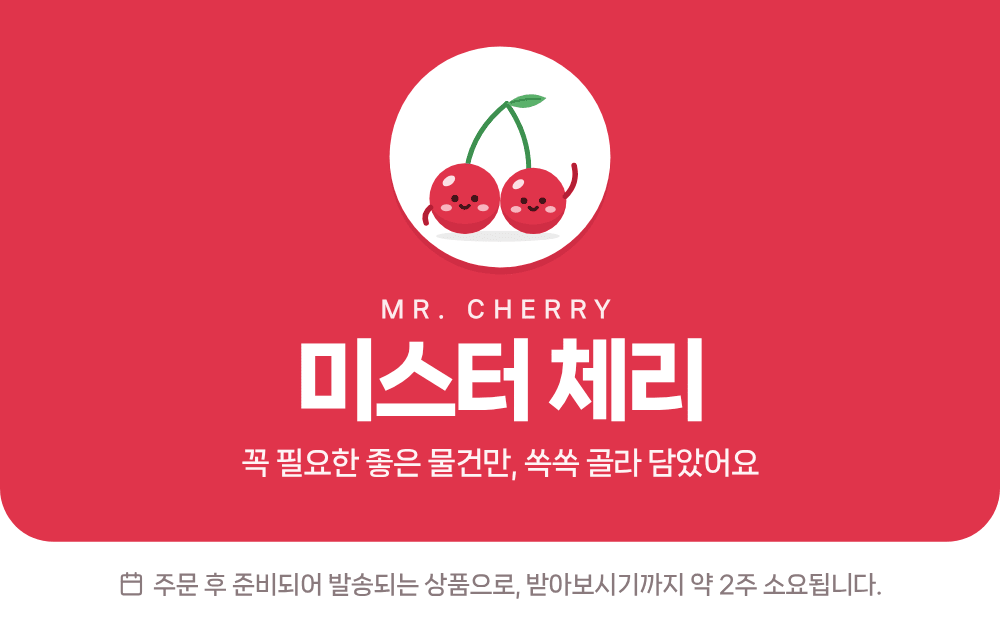
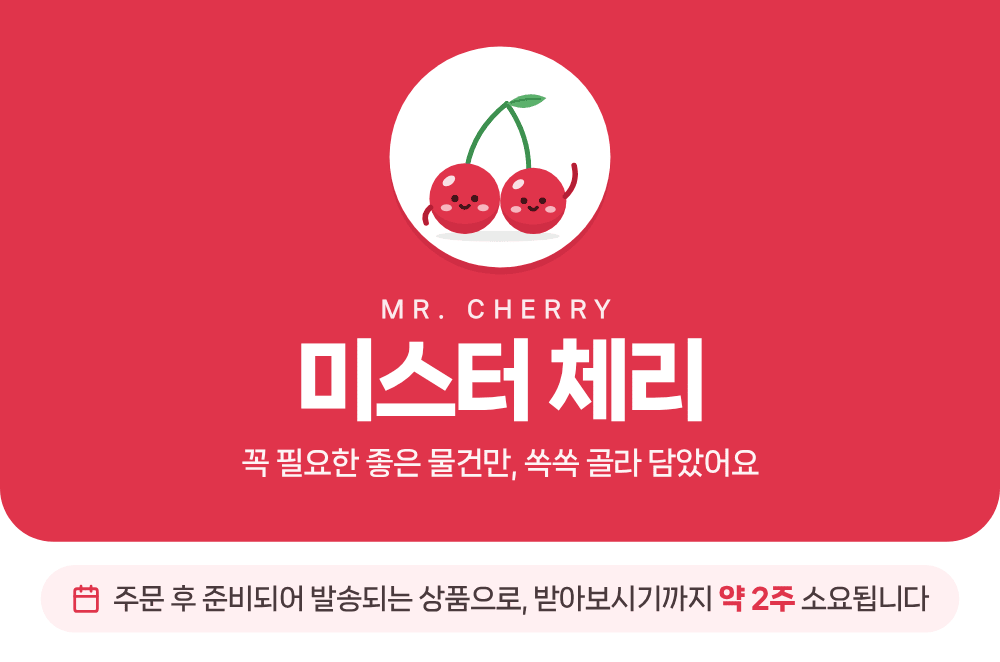
미스터 체리 상단: 2주 안내를 연분홍 알약 + '약 2주' 빨간 굵은 글씨로 조금 더 보이게
Claude-Session: https://claude.ai/code/session_01PE2ziTJ29XNj6qrJ9hNtvD

diff --git a/cherry-design/src/top6b.html b/cherry-design/src/top6b.html
@@ -1,4 +1,4 @@
-<!doctype html><html lang="ko"><head><meta charset="utf-8"><title>미스터 체리 상단</title><link rel="stylesheet" href="style4.css"><style> .note2{display:flex;align-items:center;justify-content:center;gap:8px;font-size:21px;font-weight:700;color:#8A7A7D;letter-spacing:-.02em} .note2 .ic{font-size:22px;stroke-width:2}
+<!doctype html><html lang="ko"><head><meta charset="utf-8"><title>미스터 체리 상단</title><link rel="stylesheet" href="style4.css"><style> .note2{display:flex;justify-content:center} .note2 .in{display:inline-flex;align-items:center;gap:10px;background:var(--rl);border-radius:999px;padding:10px 26px;font-size:24px;font-weight:700;color:#4A3A3D;letter-spacing:-.03em} .note2 .ic{font-size:26px;color:var(--r);stroke-width:2.2} .note2 b{color:var(--r);font-weight:900}
  body{background:#fff}
  .band{position:relative;background:var(--r);color:#fff;text-align:center;padding:40px 40px 46px;border-radius:0 0 46px 46px}
  .mbub{width:190px;height:190px;margin:0 auto}
@@ -8,4 +8,4 @@
  .note2{padding:20px 0 26px}
 </style></head><body>
 <div class="band"><div class="mbub"><div class="mascot" data-pose="wave"></div></div>
-<div class="en">MR. CHERRY</div><div class="nm">미스터 체리</div><div class="sl">꼭 필요한 좋은 물건만, 쏙쏙 골라 담았어요</div></div><div class="note2"><svg class="ic" viewBox="0 0 24 24"><rect x="3" y="4" width="18" height="18" rx="2"/><path d="M16 2v4M8 2v4M3 10h18"/></svg><span>주문 후 준비되어 발송되는 상품으로, 받아보시기까지 약 2주 소요됩니다.</span></div><script src="mascot4.js"></script></body></html>
+<div class="en">MR. CHERRY</div><div class="nm">미스터 체리</div><div class="sl">꼭 필요한 좋은 물건만, 쏙쏙 골라 담았어요</div></div><div class="note2"><span class="in"><svg class="ic" viewBox="0 0 24 24"><rect x="3" y="4" width="18" height="18" rx="2"/><path d="M16 2v4M8 2v4M3 10h18"/></svg><span>주문 후 준비되어 발송되는 상품으로, 받아보시기까지 <b>약 2주</b> 소요됩니다</span></span></div><script src="mascot4.js"></script></body></html>

diff --git a/cherry-design/src/top6a.html b/cherry-design/src/top6a.html
@@ -1,4 +1,4 @@
-<!doctype html><html lang="ko"><head><meta charset="utf-8"><title>미스터 체리 상단</title><link rel="stylesheet" href="style4.css"><style> .note2{display:flex;align-items:center;justify-content:center;gap:8px;font-size:21px;font-weight:700;color:#8A7A7D;letter-spacing:-.02em} .note2 .ic{font-size:22px;stroke-width:2}
+<!doctype html><html lang="ko"><head><meta charset="utf-8"><title>미스터 체리 상단</title><link rel="stylesheet" href="style4.css"><style> .note2{display:flex;justify-content:center} .note2 .in{display:inline-flex;align-items:center;gap:10px;background:var(--rl);border-radius:999px;padding:10px 26px;font-size:24px;font-weight:700;color:#4A3A3D;letter-spacing:-.03em} .note2 .ic{font-size:26px;color:var(--r);stroke-width:2.2} .note2 b{color:var(--r);font-weight:900}
  body{background:#fff}
  .w{padding:44px 40px 0;display:grid;grid-template-columns:260px 1fr;align-items:center;gap:30px}
  .mascot{width:260px;height:240px}
@@ -11,4 +11,4 @@
 </style></head><body>
 <div class="w"><div class="mascot" data-pose="wave"></div>
 <div><div class="en">MR. CHERRY</div><div class="nm">미스터 <span>체리</span></div><div class="sl">꼭 필요한 좋은 물건만, 쏙쏙 골라 담았어요</div></div></div>
-<div class="bar"></div><div class="note2"><svg class="ic" viewBox="0 0 24 24"><rect x="3" y="4" width="18" height="18" rx="2"/><path d="M16 2v4M8 2v4M3 10h18"/></svg><span>주문 후 준비되어 발송되는 상품으로, 받아보시기까지 약 2주 소요됩니다.</span></div><script src="mascot4.js"></script></body></html>
+<div class="bar"></div><div class="note2"><span class="in"><svg class="ic" viewBox="0 0 24 24"><rect x="3" y="4" width="18" height="18" rx="2"/><path d="M16 2v4M8 2v4M3 10h18"/></svg><span>주문 후 준비되어 발송되는 상품으로, 받아보시기까지 <b>약 2주</b> 소요됩니다</span></span></div><script src="mascot4.js"></script></body></html>

diff --git a/cherry-design/README.md b/cherry-design/README.md
@@ -64,5 +64,5 @@
 ## 6차 상단 시안 2종 (`cherry6_top_A/B.png`) — 브랜드 강조, 2주 안내는 작은 회색 한 줄
 | 시안 | 내용 | 크기 |
 |---|---|---|
-| A | 흰 바탕 간판: 큰 캐릭터 + "MR. CHERRY / 미스터 체리" 큰 글씨 + 한 줄 소개, 빨간 선 아래 작은 2주 안내 | 1000 × 471 |
-| B | 아래가 둥근 빨간 간판: 흰 원 캐릭터 + 가운데 큰 "미스터 체리", 아래 작은 2주 안내 | 1000 × 633 |
+| A | 흰 바탕 간판: 큰 캐릭터 + "MR. CHERRY / 미스터 체리" 큰 글씨 + 한 줄 소개, 빨간 선 아래 연분홍 알약 2주 안내("약 2주"만 빨강) | 1000 × 500 |
+| B | 아래가 둥근 빨간 간판: 흰 원 캐릭터 + 가운데 큰 "미스터 체리", 아래 연분홍 알약 2주 안내 | 1000 × 662 |
